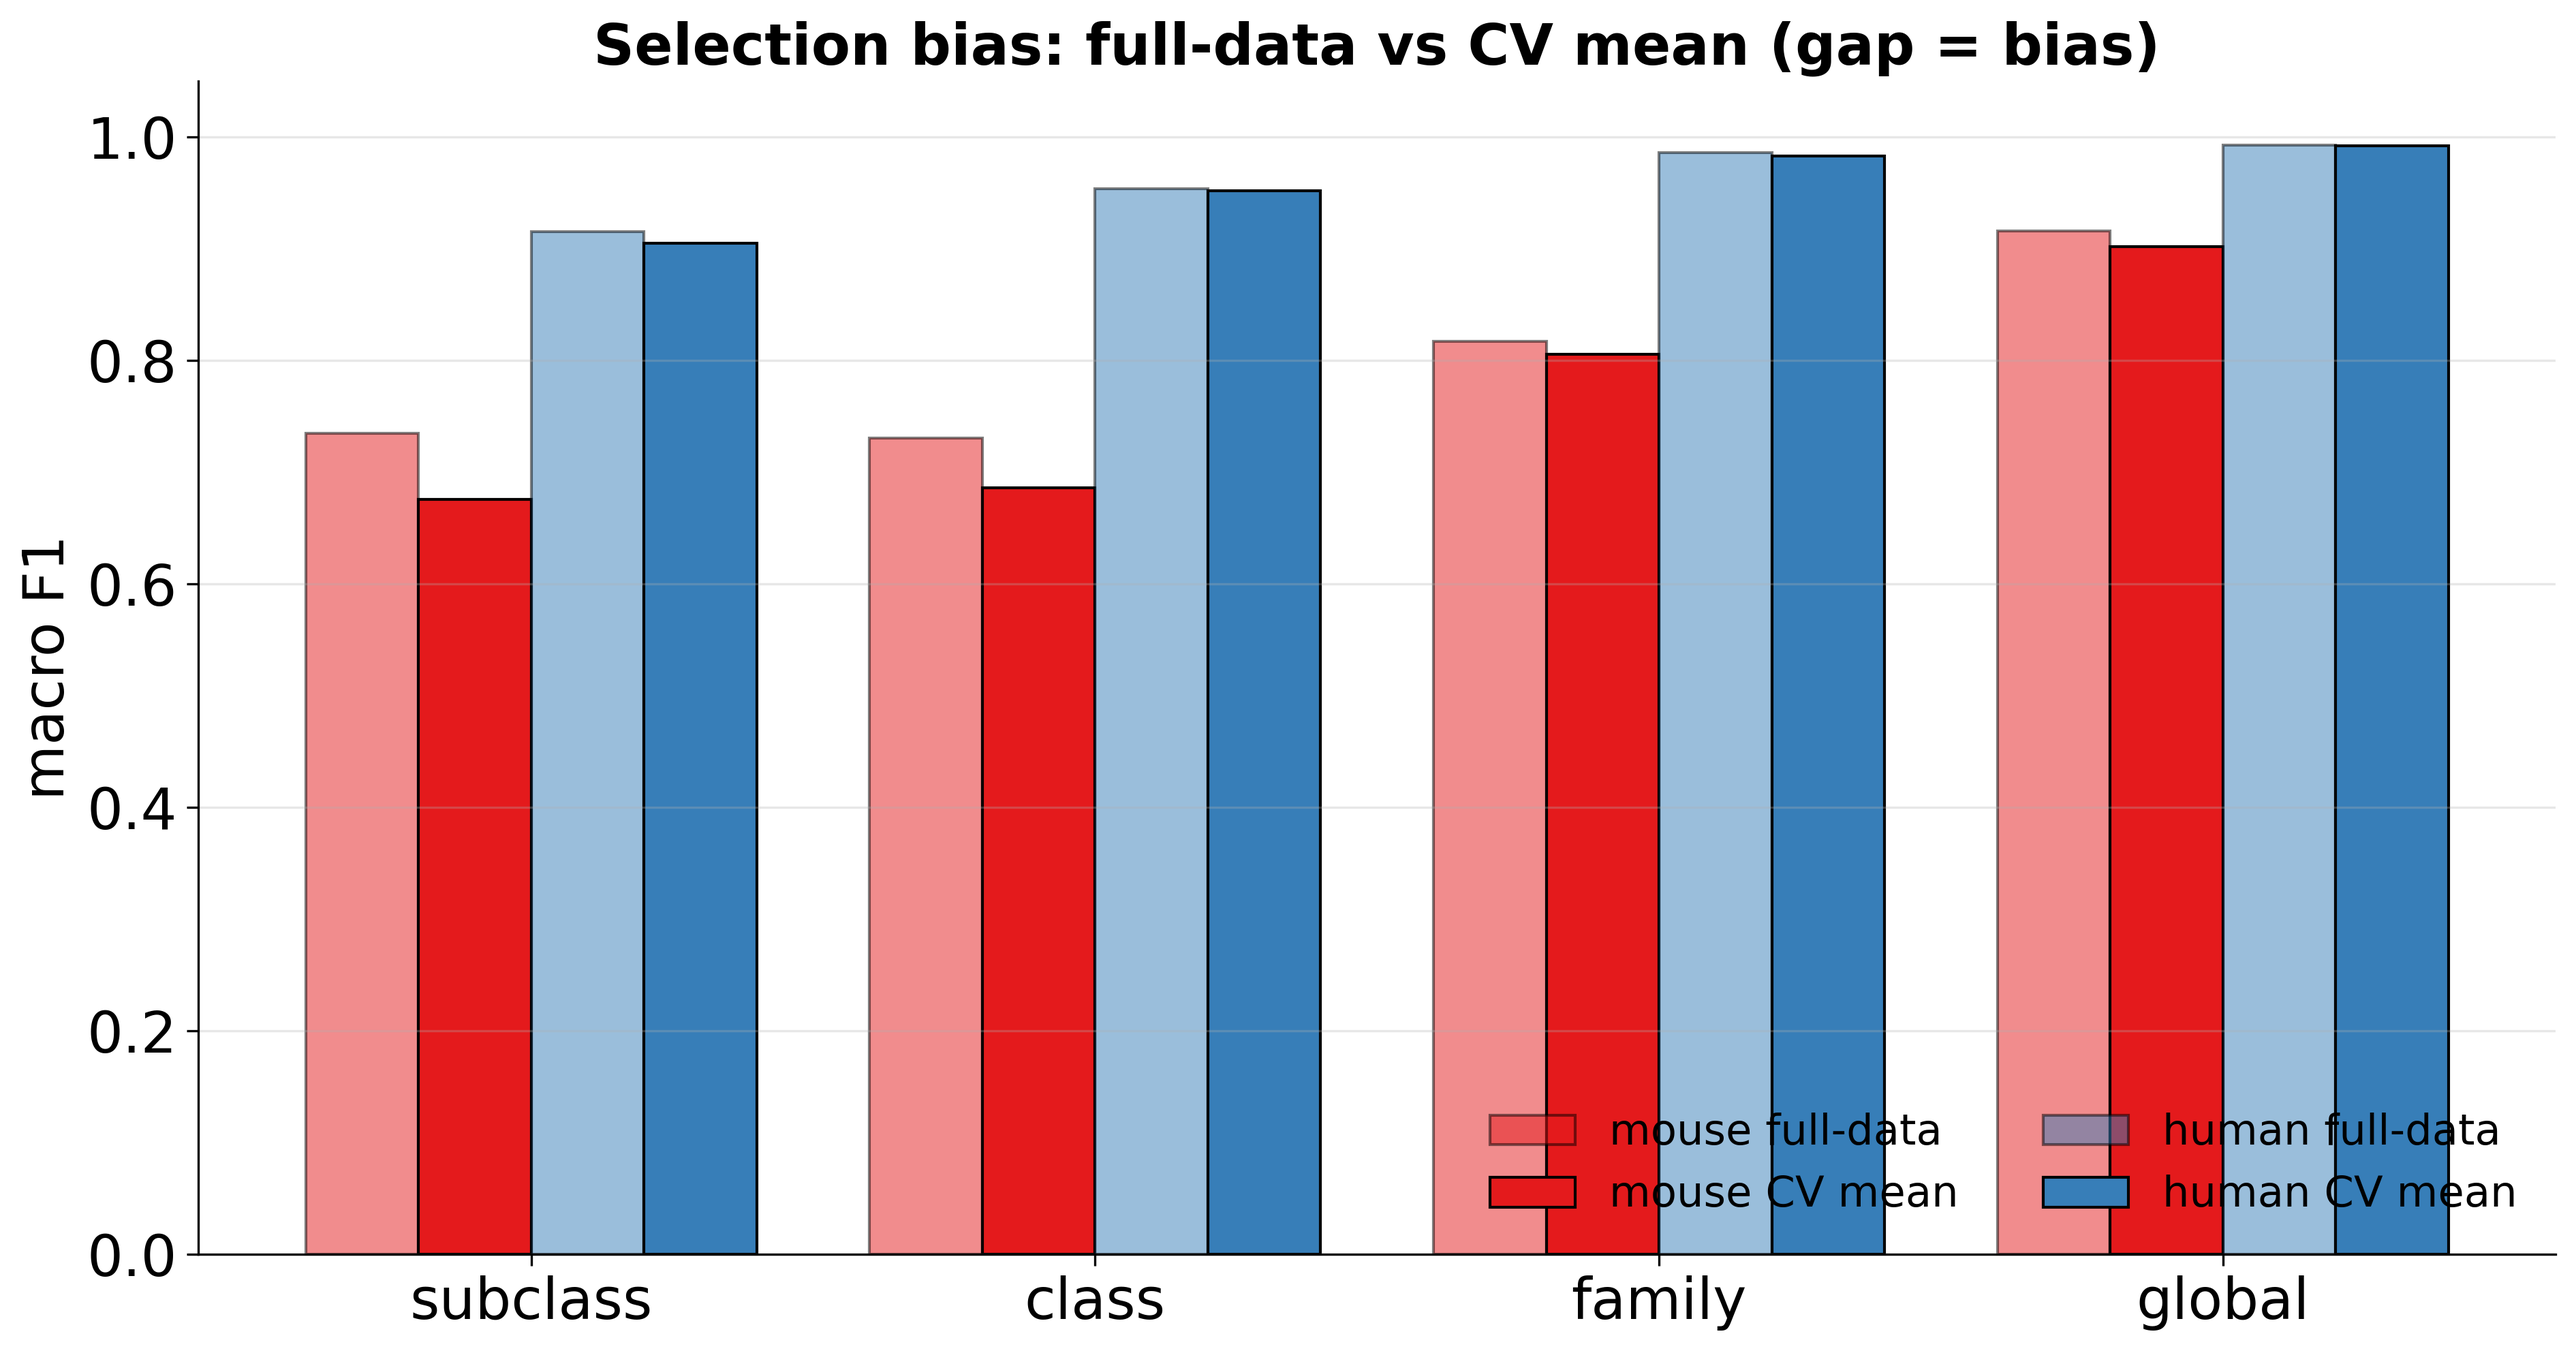
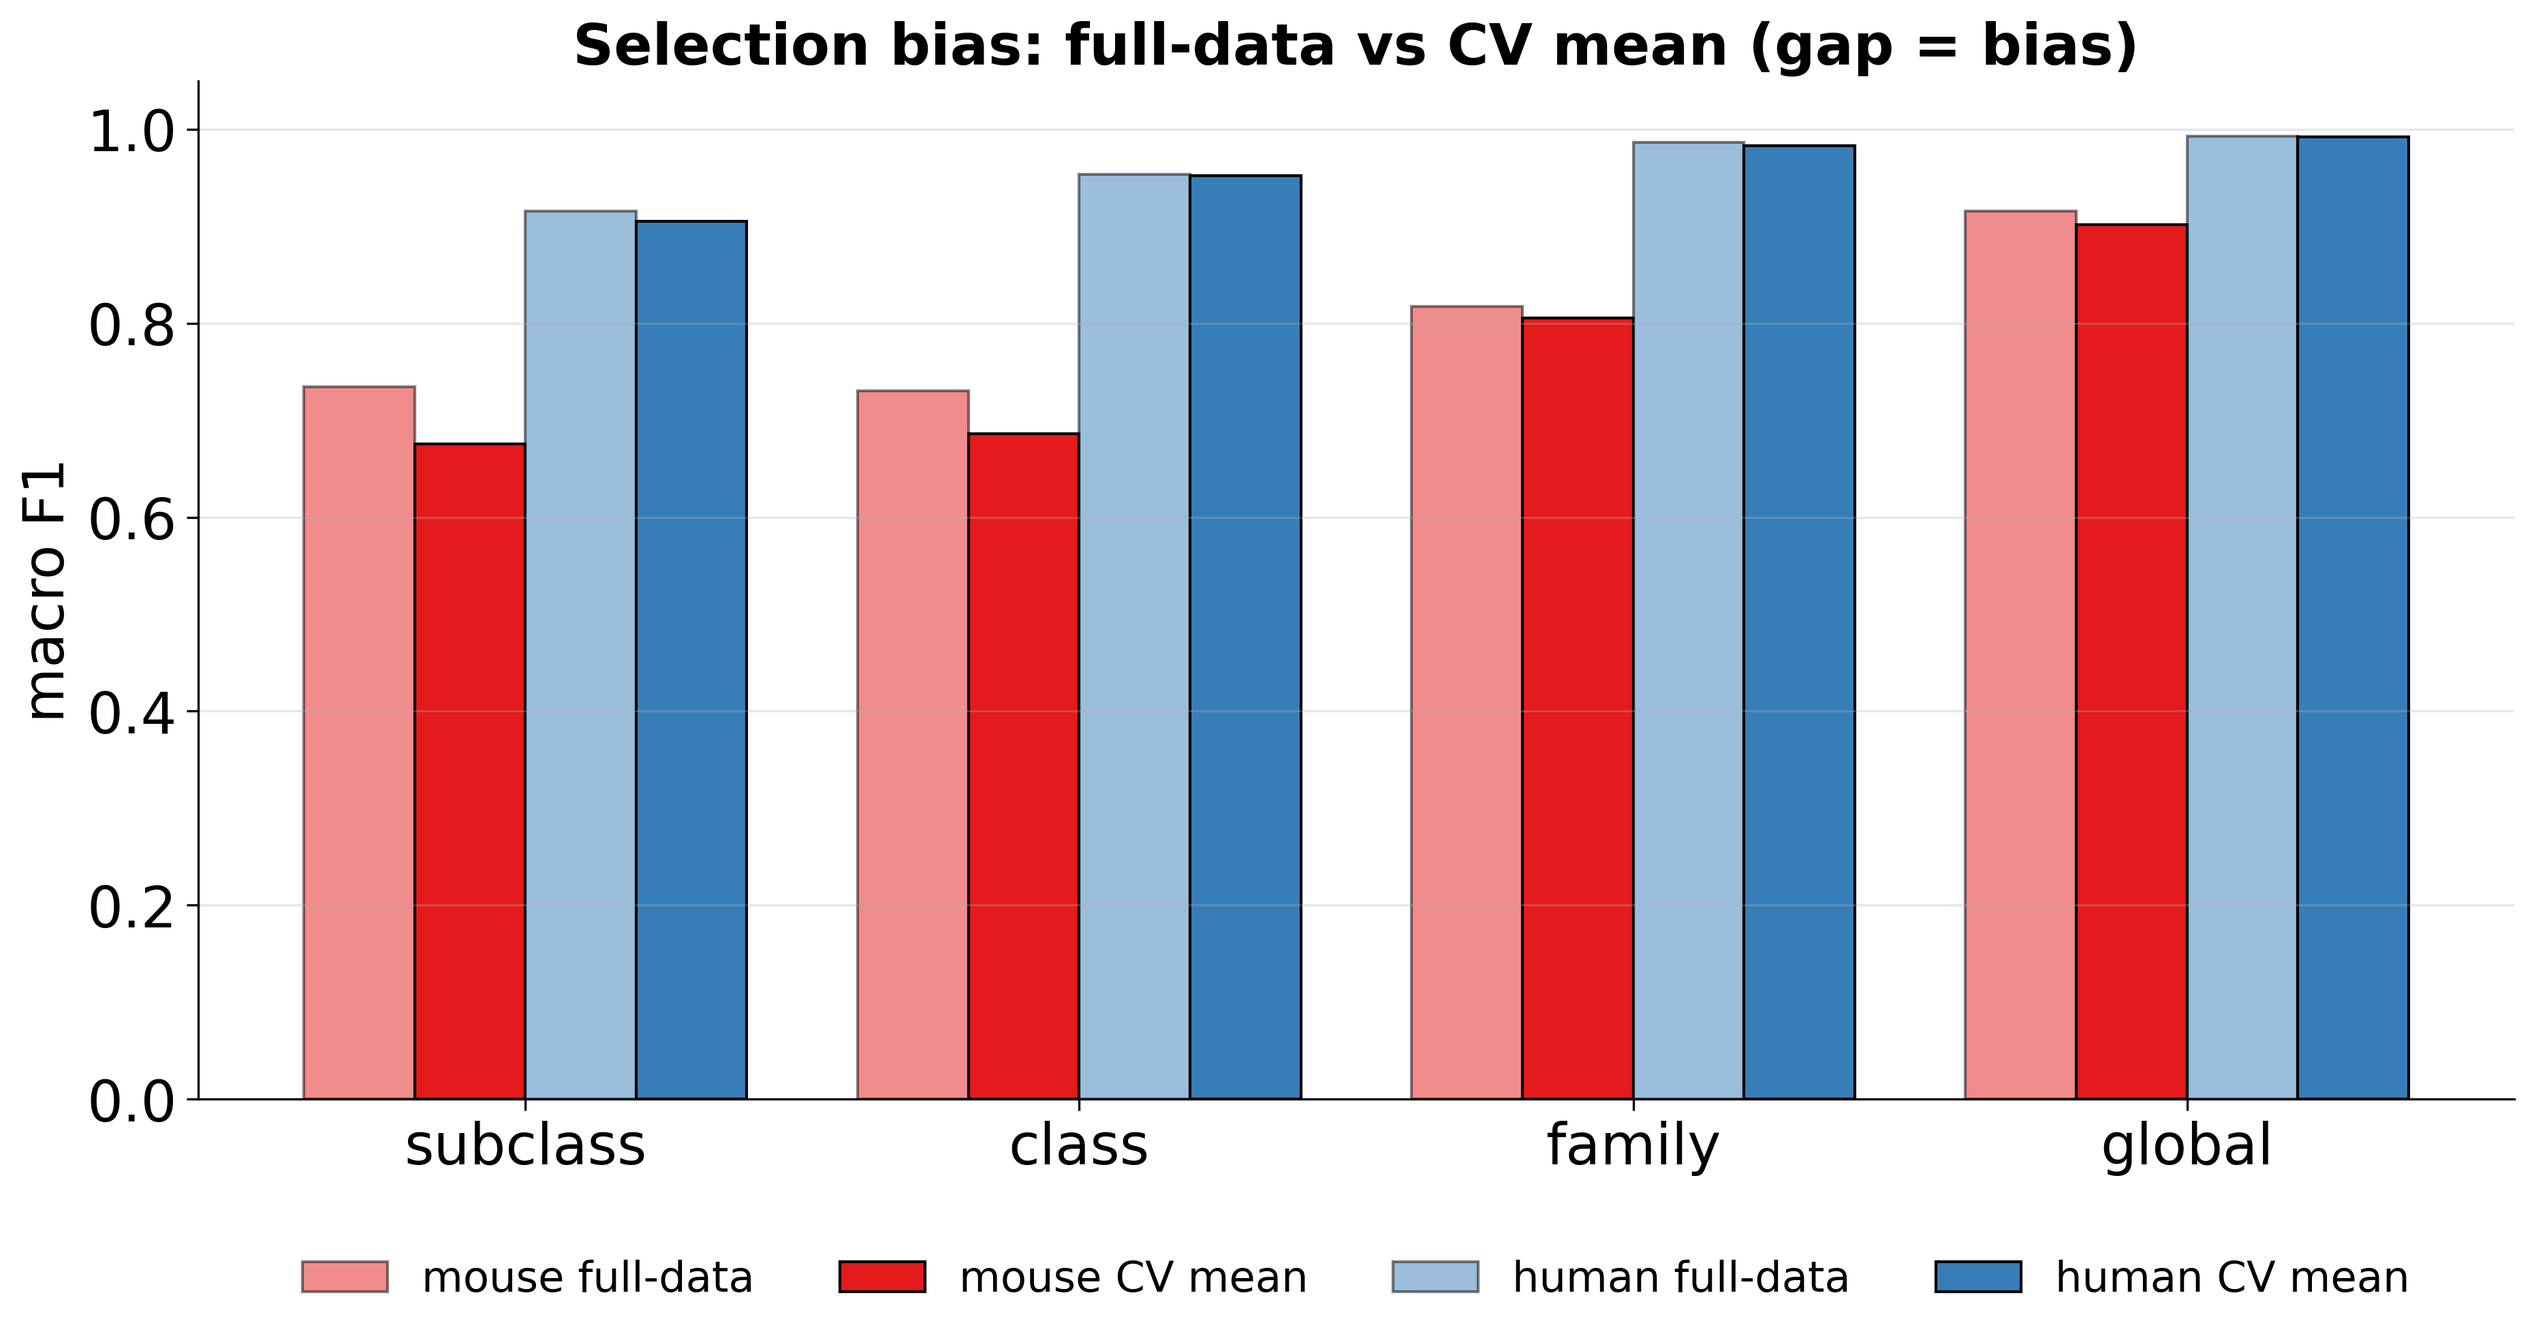
Move bias-comparison legend below the bars
The 'lower right' legend overlapped the bars; moved it below the axes
in a single row so it doesn't obscure the data.

diff --git a/bin/plot_nested_cv_loso_macro.py b/bin/plot_nested_cv_loso_macro.py
@@ -140,7 +140,8 @@ def plot_summary_bars(runs, outpath: str):
     ax.set_title("Selection bias: full-data vs CV mean (gap = bias)")
     ax.set_ylim(0, 1.05)
     ax.grid(axis="y", alpha=0.3)
-    ax.legend(loc="lower right", fontsize=15, ncol=n_runs)
+    ax.legend(loc="upper center", bbox_to_anchor=(0.5, -0.12),
+              fontsize=15, ncol=n_runs * 2, frameon=False)
     fig.tight_layout()
     save_figure(fig, outpath, formats=["png"])
     plt.close(fig)
